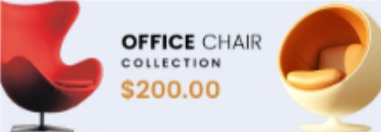
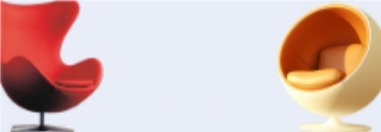
Correct second wrapper

Changed region(s): [[0.3176, 0.2424, 0.6929, 0.3939], [0.3176, 0.5758, 0.5774, 0.7576], [0.3176, 0.4242, 0.5774, 0.5455]]

diff --git a/src/components/layout/Deals/Deals.module.scss b/src/components/layout/Deals/Deals.module.scss
@@ -1,4 +1,4 @@
-@import '../../../styles/settings.scss';
+@import "../../../styles/settings.scss";
 
 .root {
   padding: 3rem 0;
@@ -46,18 +46,6 @@
         font-weight: 800;
       }
     }
-
-    .priceSubtitle {
-      position: absolute;
-      margin-left: 60px;
-
-      margin-top: -490px;
-      font-size: 55px;
-
-      color: $color-tigersEye;
-      font-weight: 600;
-    }
-
   }
 
   .wrapperSmall {
@@ -65,6 +53,32 @@
     height: 190px;
     width: 550px;
     align-items: center;
+
+    .priceSubtitle {
+      position: absolute;
+      margin-left: 160px;
+      font-size: 55px;
+      color: black;
+      font-weight: 600;
+      h4 {
+        margin-bottom: -3px;
+        font-weight: 200;
+        span {
+          padding-right: 9px;
+          font-weight: 800;
+        }
+      }
+      h5 {
+        letter-spacing: 3px;
+        font-size: 18px;
+        font-weight: 600;
+      }
+
+      p {
+        font-size: 30px;
+        color: $color-tigersEye;
+      }
+    }
 
     img {
       height: 100%;

diff --git a/src/components/layout/Deals/Deals.js b/src/components/layout/Deals/Deals.js
@@ -19,13 +19,19 @@ const Deals = () => (
               <br />
               <p>-20%</p>
             </div>
-            <div className={styles.priceSubtitle}>Bedroom bed</div>
           </div>
         </div>
 
         <div className={`col-6 ${styles.wrapperLarge}`}>
           <div className={`row pb-4 ${styles.wrapperSmall}`}>
             <img src={Chair} className={styles.imgChair} alt='Bed' />
+            <div className={styles.priceSubtitle}>
+              <h4>
+                <span>OFFICE</span>CHAIR
+              </h4>
+              <h5>COLLECTION</h5>
+              <p>$200.00</p>
+            </div>
           </div>
           <div className={`row ${styles.wrapperSmall}`}>
             <img src={Bed} className={styles.imgBed} alt='Chair' />
